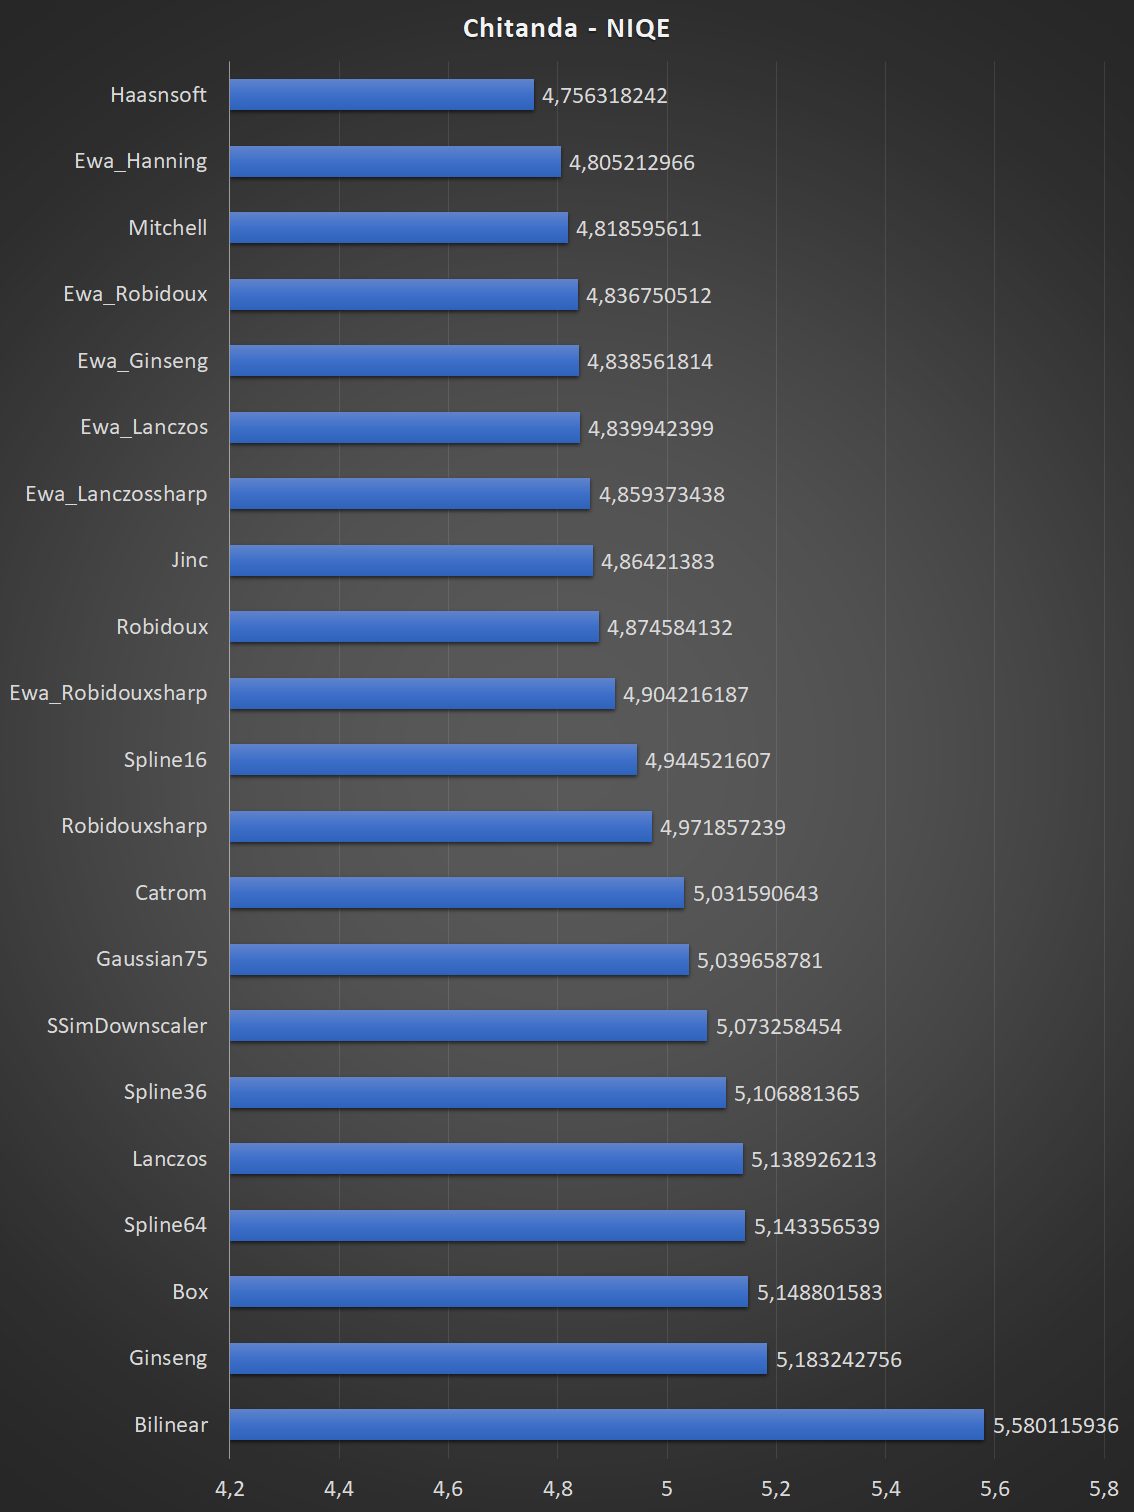
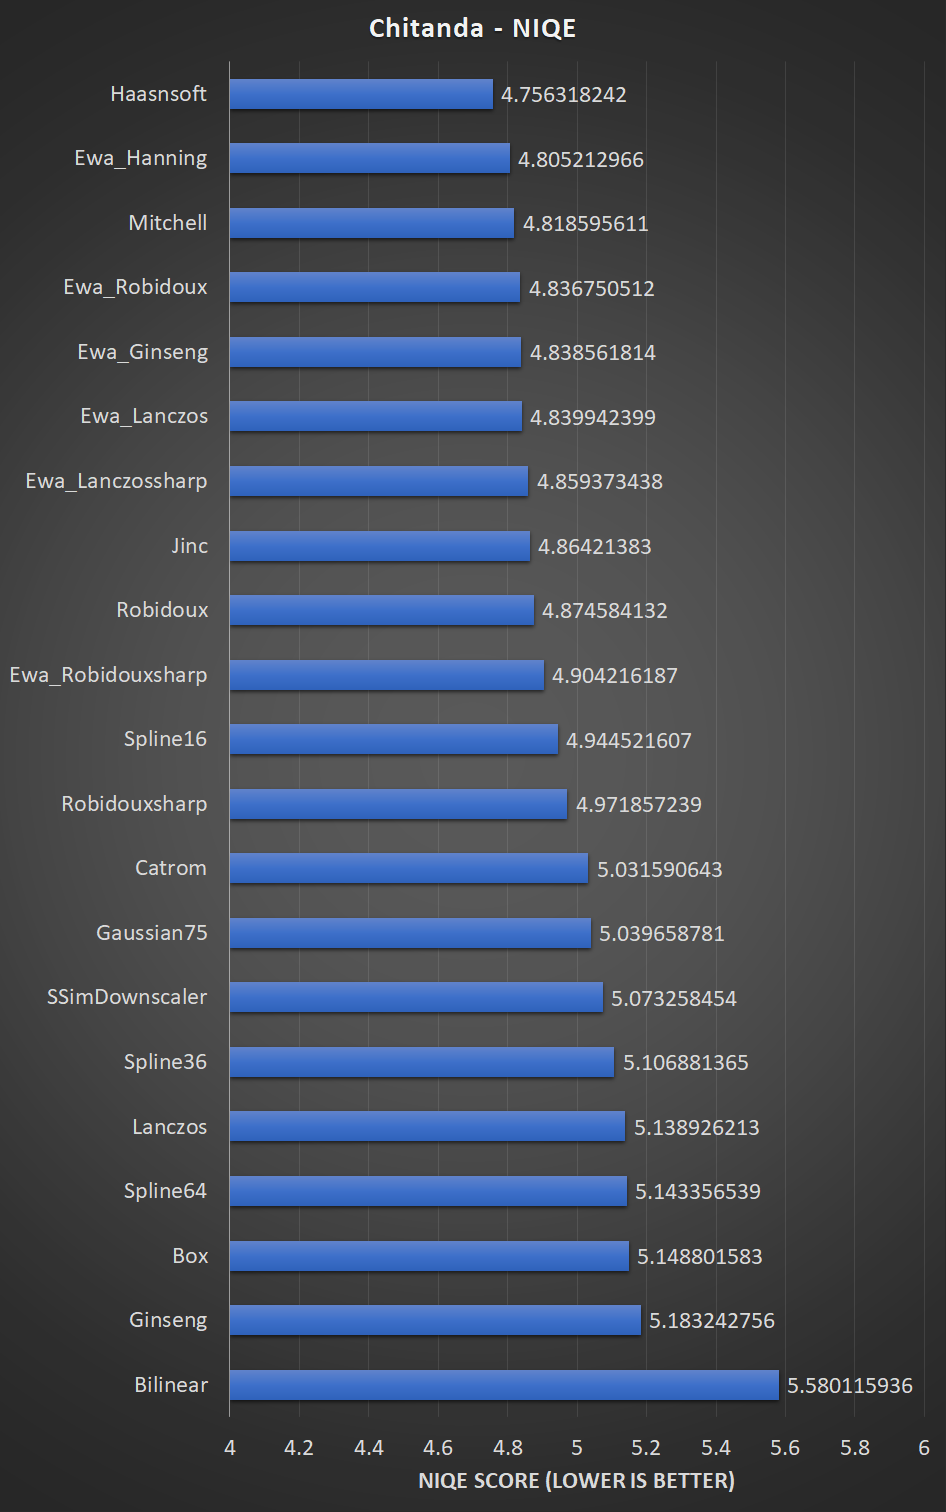
improving the downscaling charts

diff --git a/blog/mpv_upscaling.html b/blog/mpv_upscaling.html
@@ -431,10 +431,10 @@
             <p>We can see the results below:</p>
             <div class="row">
                 <div class="column">
-                    <img src="./images/mpv_upscaling/downscaling/tables/brisque.png" alt="Chitanda results BRISQUE" width="567" height="756">
+                    <img src="./images/mpv_upscaling/downscaling/tables/brisque.png" alt="Chitanda results BRISQUE" width="473" height="756">
                 </div>
                 <div class="column">
-                    <img src="./images/mpv_upscaling/downscaling/tables/niqe.png" alt="Chitanda results NIQE" width="567" height="756">
+                    <img src="./images/mpv_upscaling/downscaling/tables/niqe.png" alt="Chitanda results NIQE" width="473" height="756">
                 </div>
               </div>
         </p>
@@ -460,7 +460,7 @@
             The resulting model does not only give all the scalers better results but it also correlates better with the BRISQUE results and my personal preferences.
         </p>
         <p>
-            <img src="./images/mpv_upscaling/downscaling/tables/niqe_anime.png" alt="Chitanda results Custom NIQE" class="center" width="567" height="756">
+            <img src="./images/mpv_upscaling/downscaling/tables/niqe_anime.png" alt="Chitanda results Custom NIQE" class="center" width="473" height="756">
         </p>
         <p>
             This looks like a table we can trust now, SSimDownscaler is at the top as it should but the following filters aren't ranked from sharpest to blurriest. Lanczos is considerably sharper than Catmull Rom but also creates 
